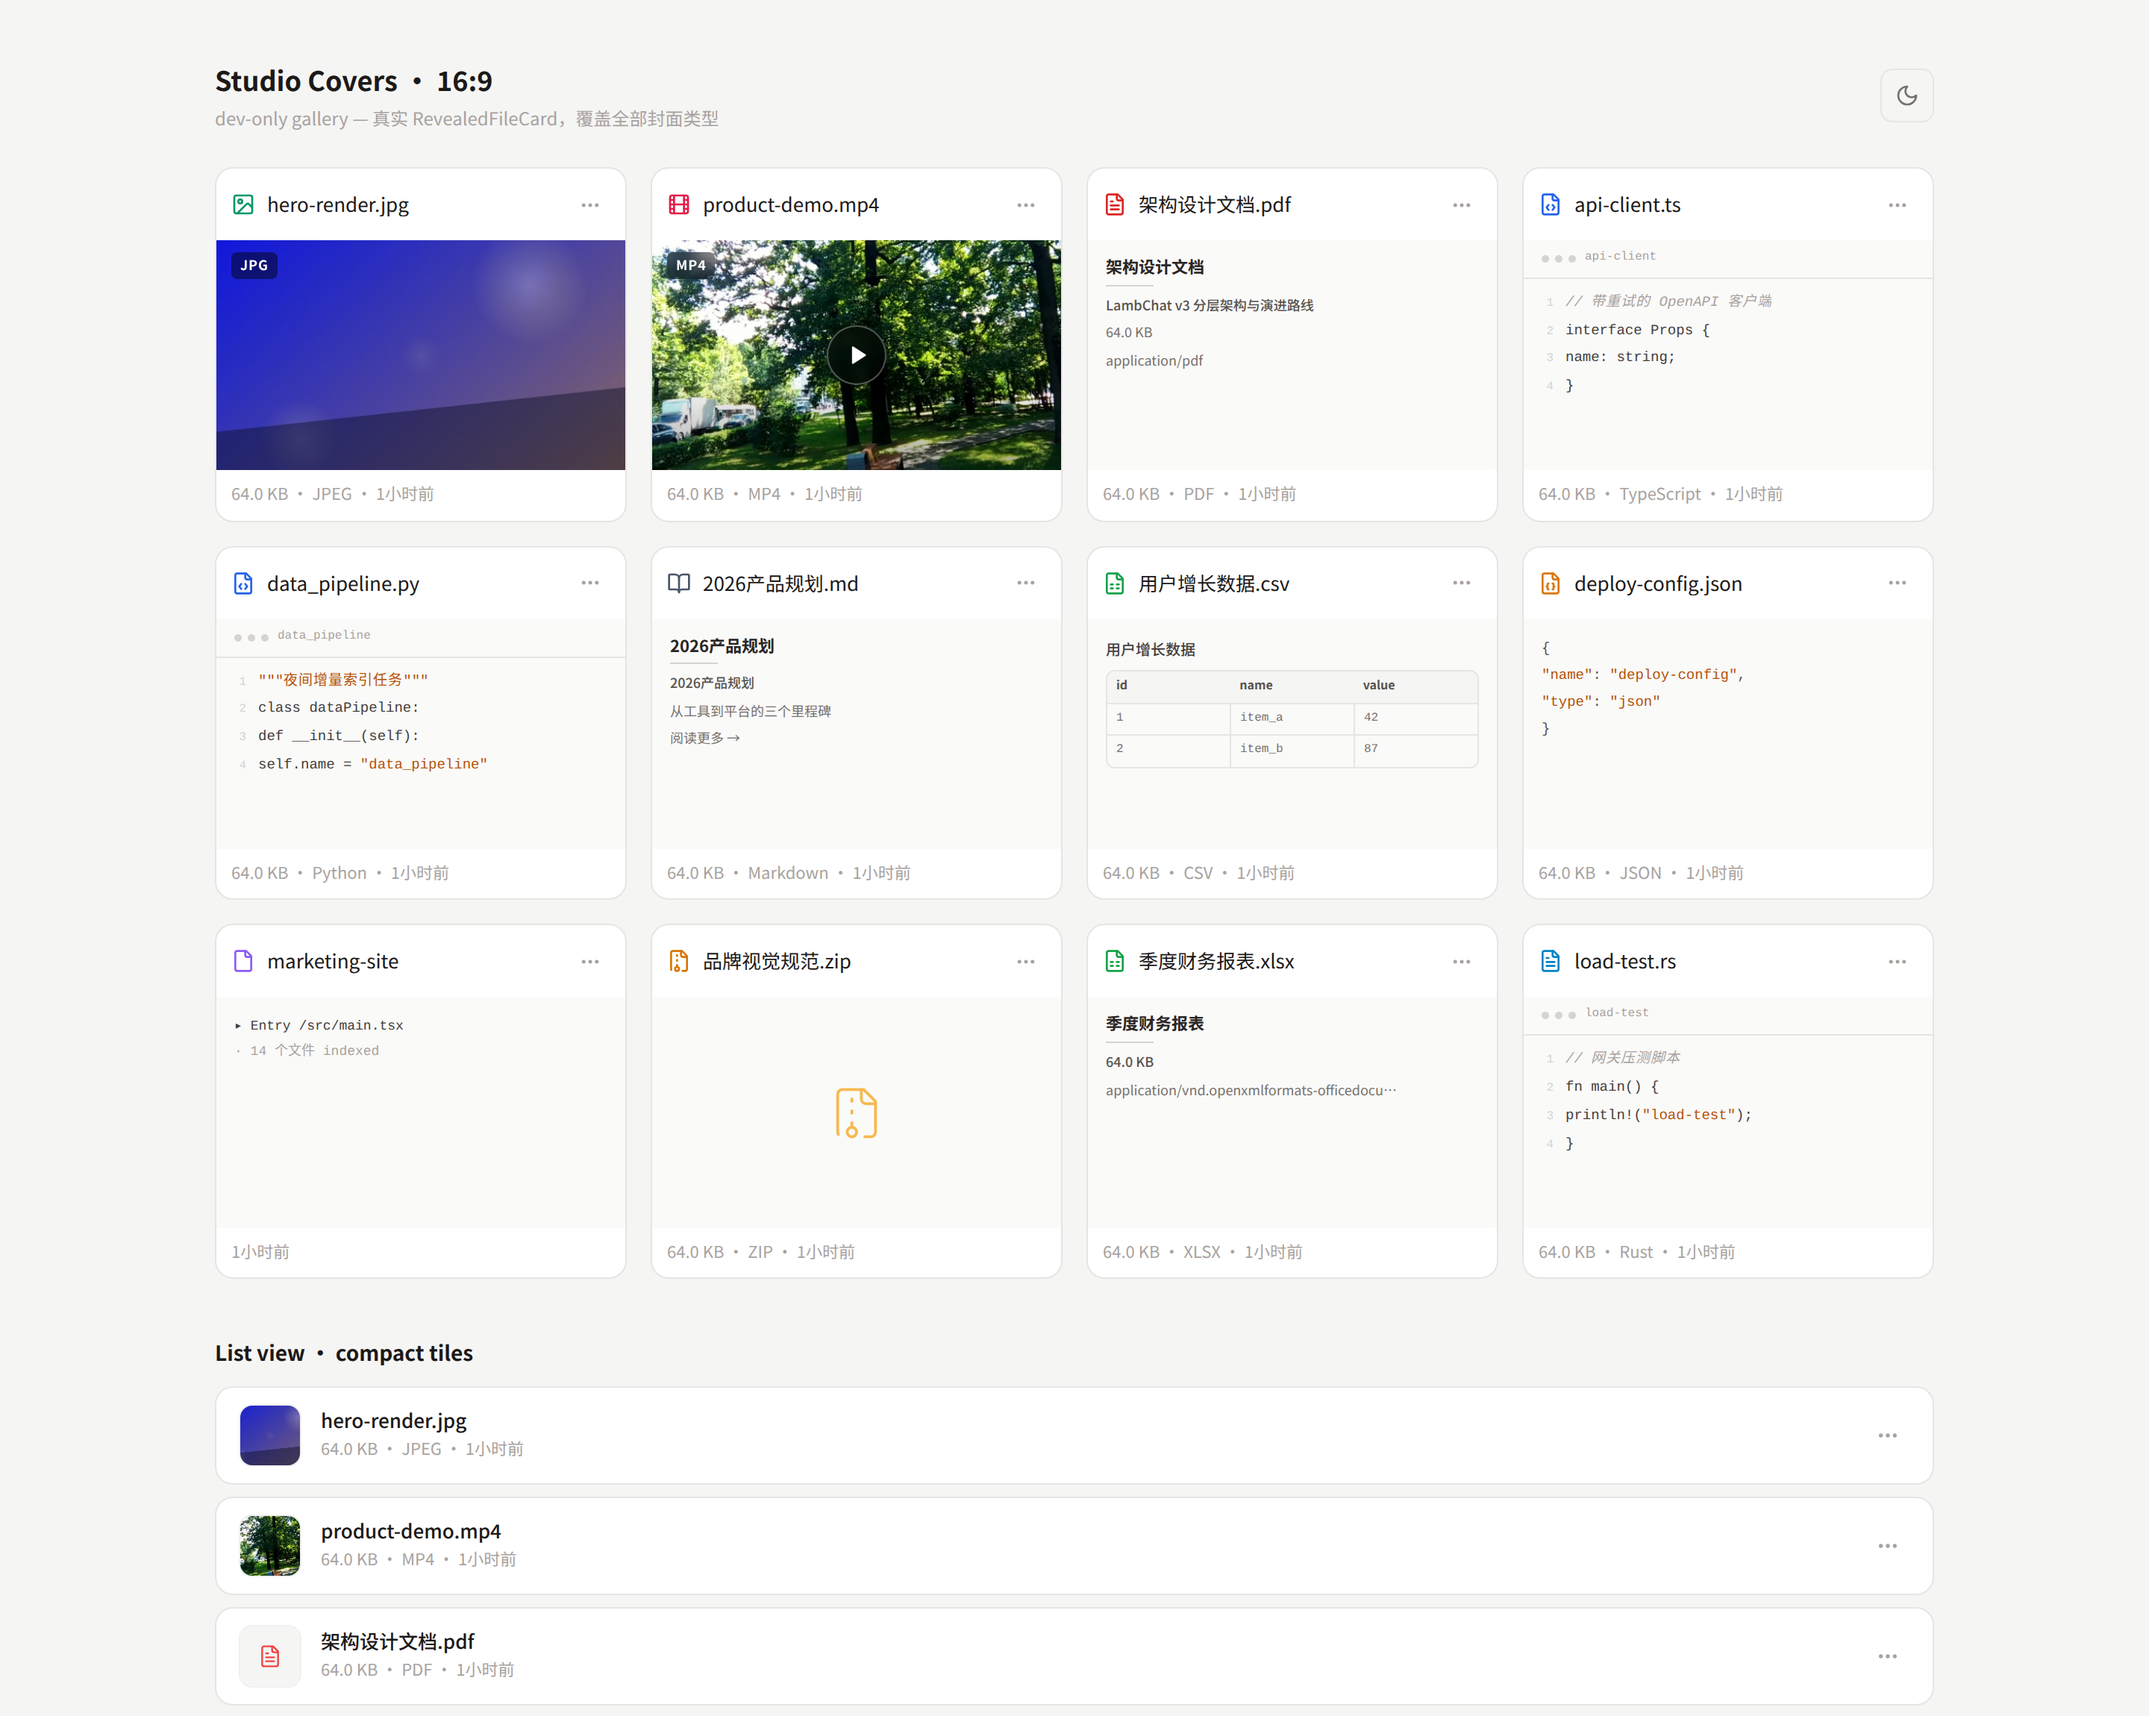
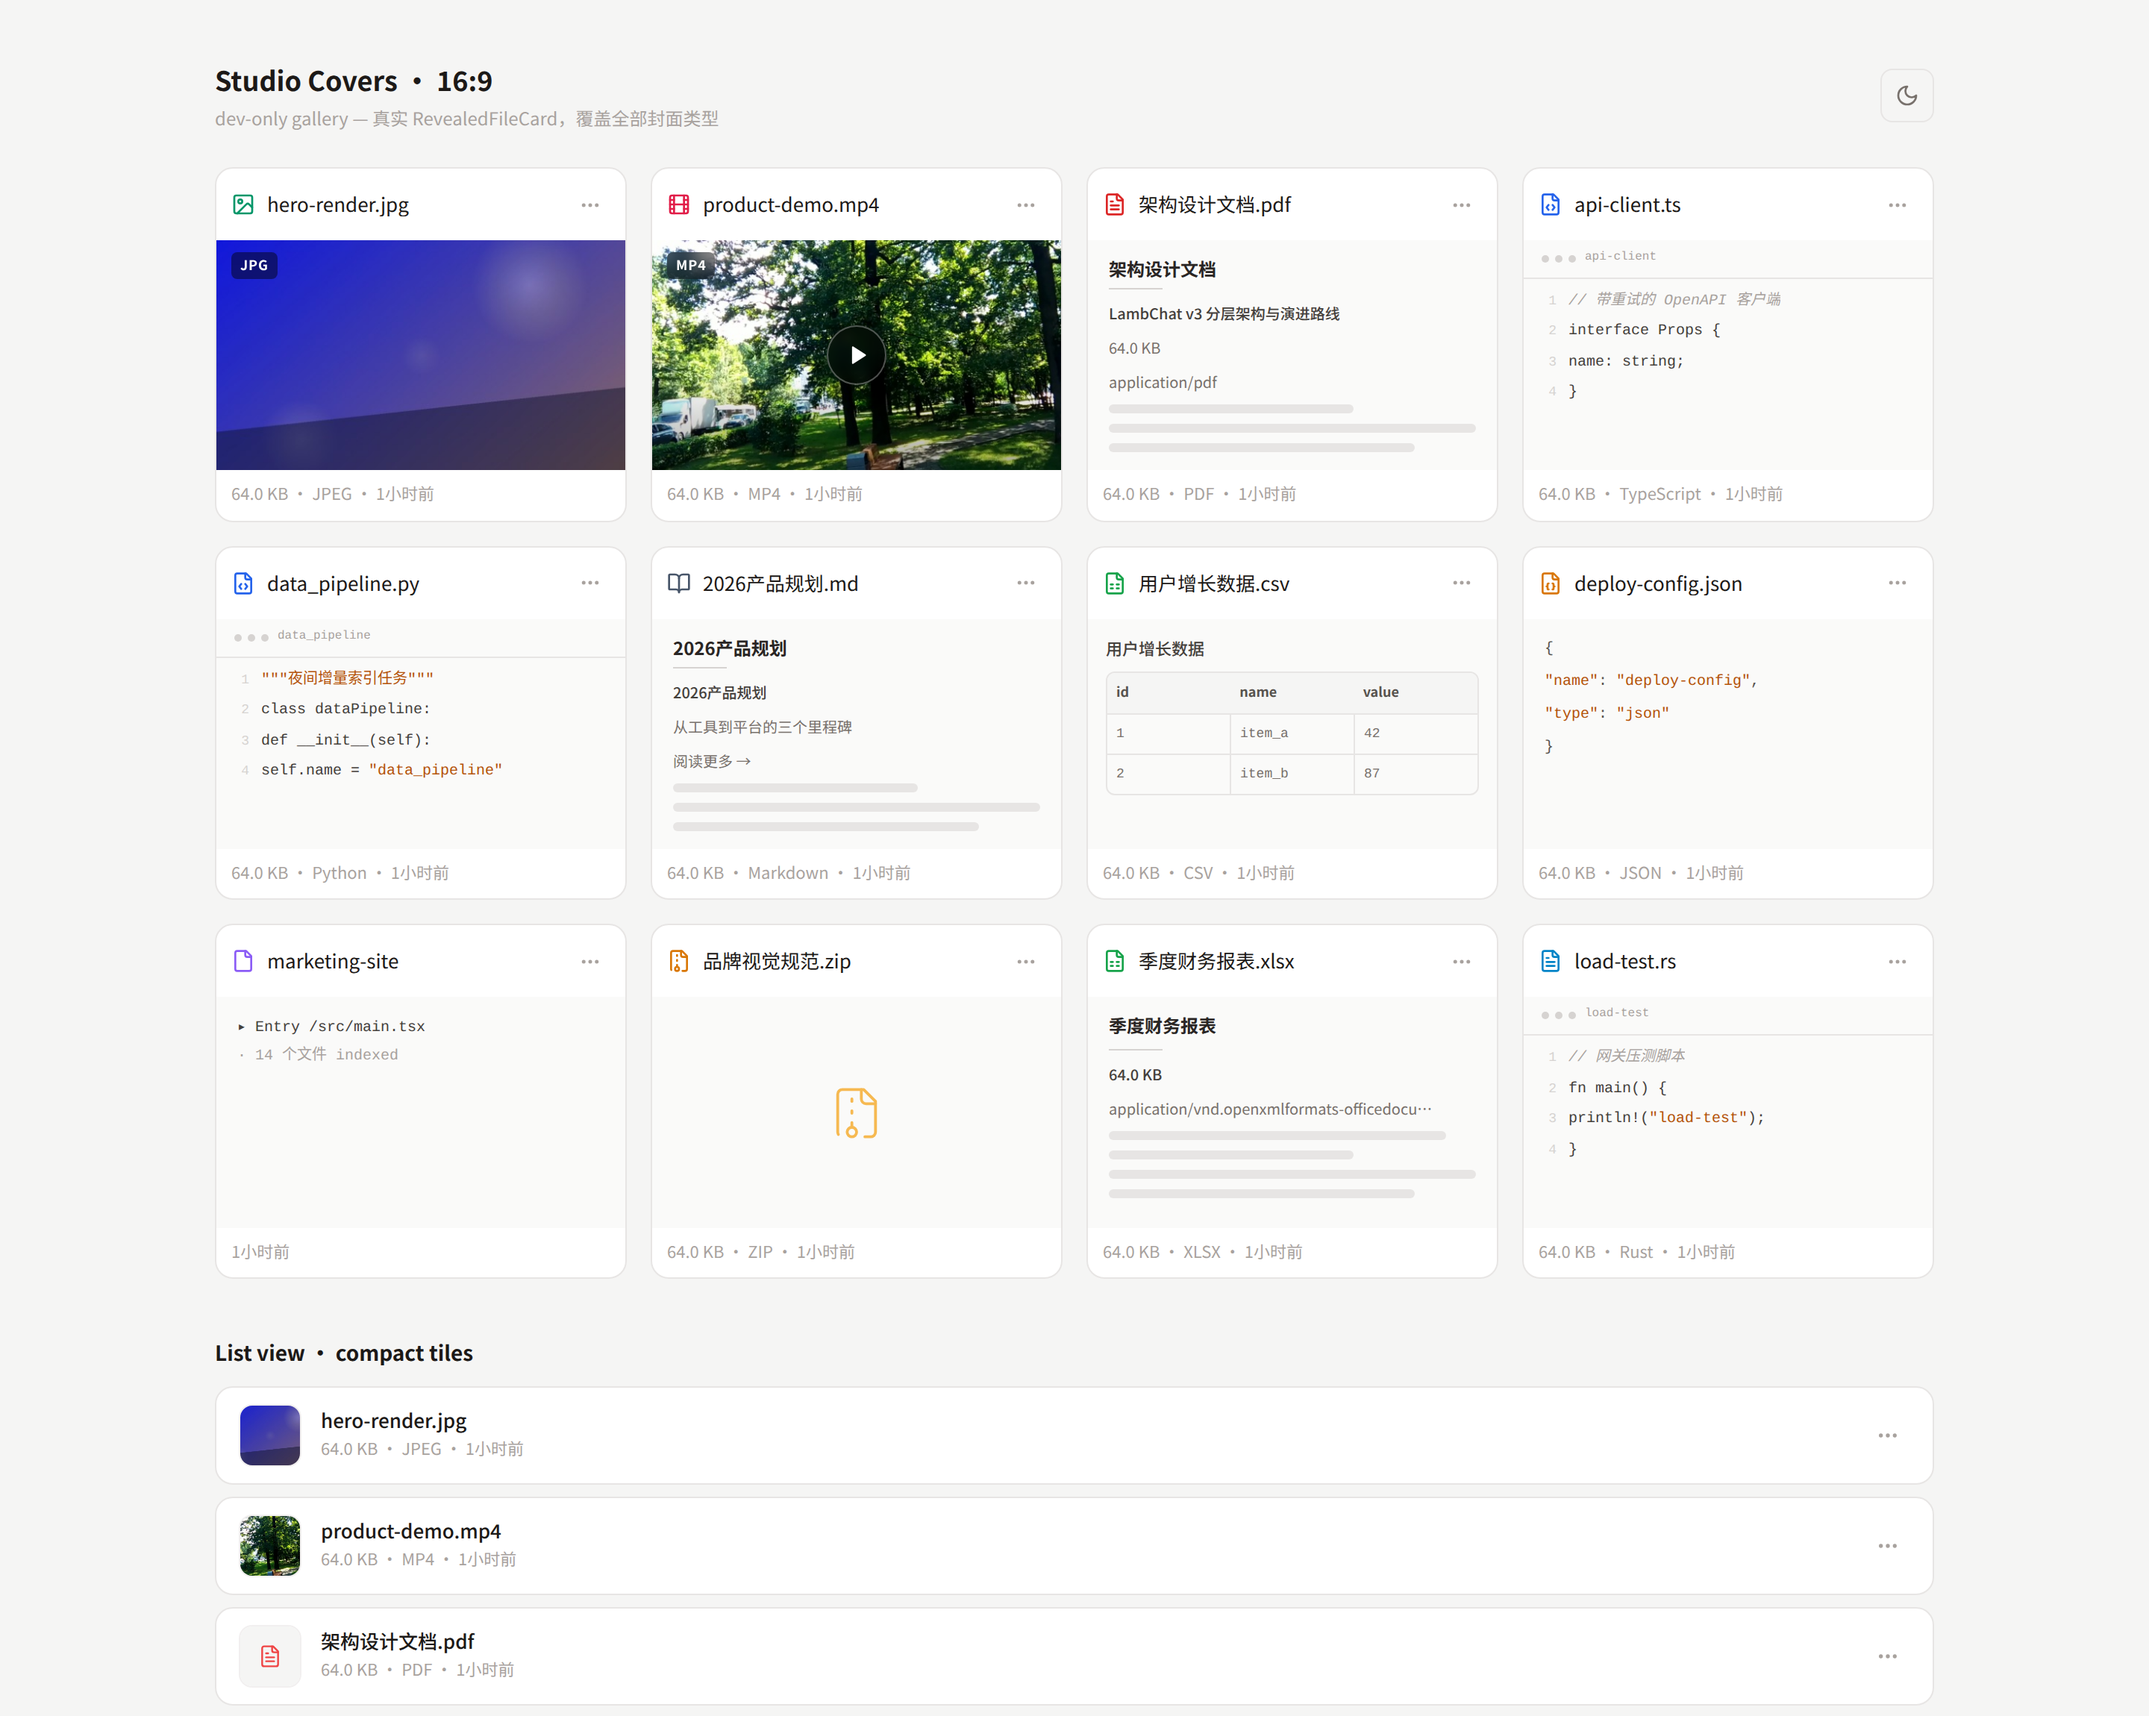
feat(files): 封面缓存日对齐+排版加强；fix(ci): uv 安装限并发重试
- cover 签名 Expires 按天对齐：同一天内所有请求生成相同签名 URL，
  缩略图本体可被浏览器/CDN 磁盘缓存，回访不再重新下载（新增稳定性测试）
- 文本封面排版加强：标题 12px 半粗、首行导语层次、行距加大、
  内容稀疏时骨架条自动补足 6 行，代码/表格字号统一上调
- CI：uv.lock 固定 CN 镜像源，GH runner 高并发拉取偶发超时（MyPy 一次），
  三个 sync 步骤限 UV_CONCURRENT_DOWNLOADS=8 并失败重试一次（uv 断点续传）

diff --git a/frontend/src/components/fileLibrary/components/FileCardPreview.tsx b/frontend/src/components/fileLibrary/components/FileCardPreview.tsx
@@ -104,38 +104,44 @@ function PaperCanvas({
 
 /* ── Doc cover: page of text (md / pdf / docs) ───────── */
 
-const DOC_LINE_WIDTHS = ["w-full", "w-11/12", "w-4/5", "w-3/5"];
+const DOC_LINE_WIDTHS = ["w-full", "w-11/12", "w-5/6", "w-3/4", "w-5/6"];
+const DOC_SKELETON_WIDTHS = ["w-full", "w-5/6", "w-11/12", "w-2/3"];
+const DOC_MIN_ROWS = 6;
 
 function DocCover({ p }: { p: FileCardPreviewModel }) {
   const bodyLines = p.lines.filter(Boolean).slice(0, 5);
+  const filler = Math.max(0, DOC_MIN_ROWS - bodyLines.length);
 
   return (
     <PaperCanvas>
-      <div className="flex h-full flex-col px-3 pb-3 pt-3">
-        <p className="truncate text-[11px] font-semibold leading-tight text-stone-800 dark:text-stone-200">
+      <div className="flex h-full flex-col px-3.5 pb-3 pt-3">
+        <p className="truncate text-[12px] font-semibold leading-snug text-stone-800 dark:text-stone-200">
           {p.title}
         </p>
-        <div className="mt-1 h-px w-8 bg-stone-300 dark:bg-stone-700" />
-        <div className="mt-1.5 space-y-[5px]">
+        <div className="mt-1.5 mb-2 h-px w-9 bg-stone-300 dark:bg-stone-700" />
+        <div className="space-y-[7px]">
           {bodyLines.map((line, i) => (
             <p
               key={i}
               className={clsx(
-                "truncate text-[9px] leading-[1.5] text-stone-500 dark:text-stone-400",
-                i === 0 && "font-medium text-stone-600 dark:text-stone-300",
-                DOC_LINE_WIDTHS[(i + 1) % DOC_LINE_WIDTHS.length],
+                "truncate text-[10px] leading-[1.6] text-stone-500 dark:text-stone-400",
+                i === 0 &&
+                  "text-[10.5px] font-medium text-stone-700 dark:text-stone-300",
+                DOC_LINE_WIDTHS[i % DOC_LINE_WIDTHS.length],
               )}
             >
               {line}
             </p>
           ))}
-          {bodyLines.length === 0 && (
-            <>
-              <div className="h-[5px] w-full rounded-[2px] bg-stone-200 dark:bg-stone-800" />
-              <div className="h-[5px] w-11/12 rounded-[2px] bg-stone-200 dark:bg-stone-800" />
-              <div className="h-[5px] w-4/5 rounded-[2px] bg-stone-200 dark:bg-stone-800" />
-            </>
-          )}
+          {Array.from({ length: filler }, (_, i) => (
+            <div
+              key={`sk-${i}`}
+              className={clsx(
+                "h-[6px] rounded-[3px] bg-stone-200 dark:bg-stone-800",
+                DOC_SKELETON_WIDTHS[(i + bodyLines.length) % DOC_SKELETON_WIDTHS.length],
+              )}
+            />
+          ))}
         </div>
       </div>
     </PaperCanvas>
@@ -158,10 +164,10 @@ function CodeCover({ p }: { p: FileCardPreviewModel }) {
             {p.title}
           </span>
         </div>
-        <div className="flex-1 space-y-[3px] overflow-hidden px-3 py-2 font-mono text-[9.5px] leading-[1.6]">
+        <div className="flex-1 space-y-[4px] overflow-hidden px-3 py-2 font-mono text-[10px] leading-[1.65]">
           {p.lines.slice(0, 4).map((line, i) => (
             <div key={i} className="flex items-baseline gap-2 overflow-hidden">
-              <span className="w-2 shrink-0 text-right text-[8px] text-stone-300 select-none dark:text-stone-600">
+              <span className="w-2.5 shrink-0 text-right text-[9px] text-stone-300 select-none dark:text-stone-600">
                 {i + 1}
               </span>
               <span className="truncate text-stone-700 dark:text-stone-300">
@@ -197,7 +203,7 @@ function DataCover({ p }: { p: FileCardPreviewModel }) {
     return (
       <PaperCanvas>
         <div className="flex h-full flex-col px-3 pb-3 pt-3">
-          <p className="mb-1.5 truncate text-[10px] font-medium text-stone-700 dark:text-stone-300">
+          <p className="mb-1.5 truncate text-[11px] font-medium text-stone-700 dark:text-stone-300">
             {p.title}
           </p>
           <div className="overflow-hidden rounded-md border border-stone-200 dark:border-stone-800">
@@ -205,7 +211,7 @@ function DataCover({ p }: { p: FileCardPreviewModel }) {
               {header.slice(0, 3).map((cell, i) => (
                 <span
                   key={i}
-                  className="flex-1 truncate px-1.5 py-1 text-[8px] font-semibold text-stone-600 dark:text-stone-300"
+                  className="flex-1 truncate px-1.5 py-1.5 text-[9px] font-semibold text-stone-600 dark:text-stone-300"
                 >
                   {cell}
                 </span>
@@ -219,7 +225,7 @@ function DataCover({ p }: { p: FileCardPreviewModel }) {
                 {Array.from({ length: Math.min(3, header.length) }, (_, c) => (
                   <span
                     key={c}
-                    className="flex-1 truncate px-1.5 py-1 font-mono text-[8px] text-stone-500 dark:text-stone-400"
+                    className="flex-1 truncate px-1.5 py-1.5 font-mono text-[9px] text-stone-500 dark:text-stone-400"
                   >
                     {row[c] ?? ""}
                   </span>
@@ -234,7 +240,7 @@ function DataCover({ p }: { p: FileCardPreviewModel }) {
 
   return (
     <PaperCanvas>
-      <div className="h-full space-y-[3px] overflow-hidden px-3 py-3 font-mono text-[9.5px] leading-[1.6]">
+      <div className="h-full space-y-[5px] overflow-hidden px-3.5 py-3 font-mono text-[10px] leading-[1.7]">
         {p.lines.slice(0, 5).map((line, i) => (
           <p key={i} className="truncate text-stone-600 dark:text-stone-400">
             {tokenizeCodeLine(line).map((tok, j) => (
@@ -261,7 +267,7 @@ function DataCover({ p }: { p: FileCardPreviewModel }) {
 function ProjectCover({ p }: { p: FileCardPreviewModel }) {
   return (
     <PaperCanvas>
-      <div className="flex h-full flex-col px-3 pb-3 pt-3 font-mono text-[9px] leading-[1.8]">
+      <div className="flex h-full flex-col px-3.5 pb-3 pt-3 font-mono text-[10px] leading-[1.9]">
         {p.lines.slice(0, 4).map((line, i) => (
           <p
             key={i}

diff --git a/src/api/routes/upload_cover.py b/src/api/routes/upload_cover.py
@@ -8,6 +8,7 @@ long-lived signed URL, local storage resizes with Pillow, everything else
 
 from __future__ import annotations
 
+import time
 from typing import Any
 
 from fastapi import HTTPException
@@ -21,7 +22,16 @@ logger = get_logger(__name__)
 
 COVER_WIDTH = 560
 COVER_HEIGHT = 315
-COVER_SIGNED_EXPIRES = 7 * 24 * 3600  # stable URL → browser/CDN can cache
+_DAY = 24 * 3600
+
+
+def cover_signature_expiry() -> int:
+    """Day-aligned expiry: every request within a day yields the identical
+    signed URL, so browsers/CDNs disk-cache the thumbnail itself instead of
+    re-fetching a fresh signature per visit. Valid until end of tomorrow."""
+    now = int(time.time())
+    return ((now // _DAY) + 2) * _DAY
+
 
 _COVER_IMAGE_EXTS = {"jpg", "jpeg", "png", "webp", "bmp"}
 # gif keeps its animation and svg is vector data — neither crops well
@@ -98,7 +108,7 @@ async def get_file_cover_response(storage: Any, key: str, t: int | None) -> Resp
         logger.warning(f"Failed to check file existence for {key}: {e}")
 
     try:
-        url = await storage.get_presigned_url(key, COVER_SIGNED_EXPIRES, process=process)
+        url = await storage.get_presigned_url(key, cover_signature_expiry(), process=process)
     except TypeError:
         raise HTTPException(status_code=404, detail="Cover thumbnail not available")
     except Exception as e:

diff --git a/tests/api/routes/test_upload_cover_thumb.py b/tests/api/routes/test_upload_cover_thumb.py
@@ -141,3 +141,20 @@ def _async_of(value):
         return value
 
     return _factory
+
+
+@pytest.mark.asyncio
+async def test_cover_signature_expiry_is_day_aligned_and_stable(
+    monkeypatch: pytest.MonkeyPatch,
+) -> None:
+    storage = _FakeS3Storage()
+    monkeypatch.setattr(upload, "get_or_init_storage", _async_of(storage))
+
+    await upload.get_file_proxy("a/b/hero.jpg", _fake_request(), cover=True)
+    await upload.get_file_proxy("a/b/hero.jpg", _fake_request(), cover=True)
+
+    expires = [c["expires"] for c in storage.presigned_calls]
+    # Same day → identical signed URL → browser/CDN disk-caches the thumb
+    assert expires[0] == expires[1]
+    assert expires[0] % 86400 == 0
+    assert expires[0] >= 86400
